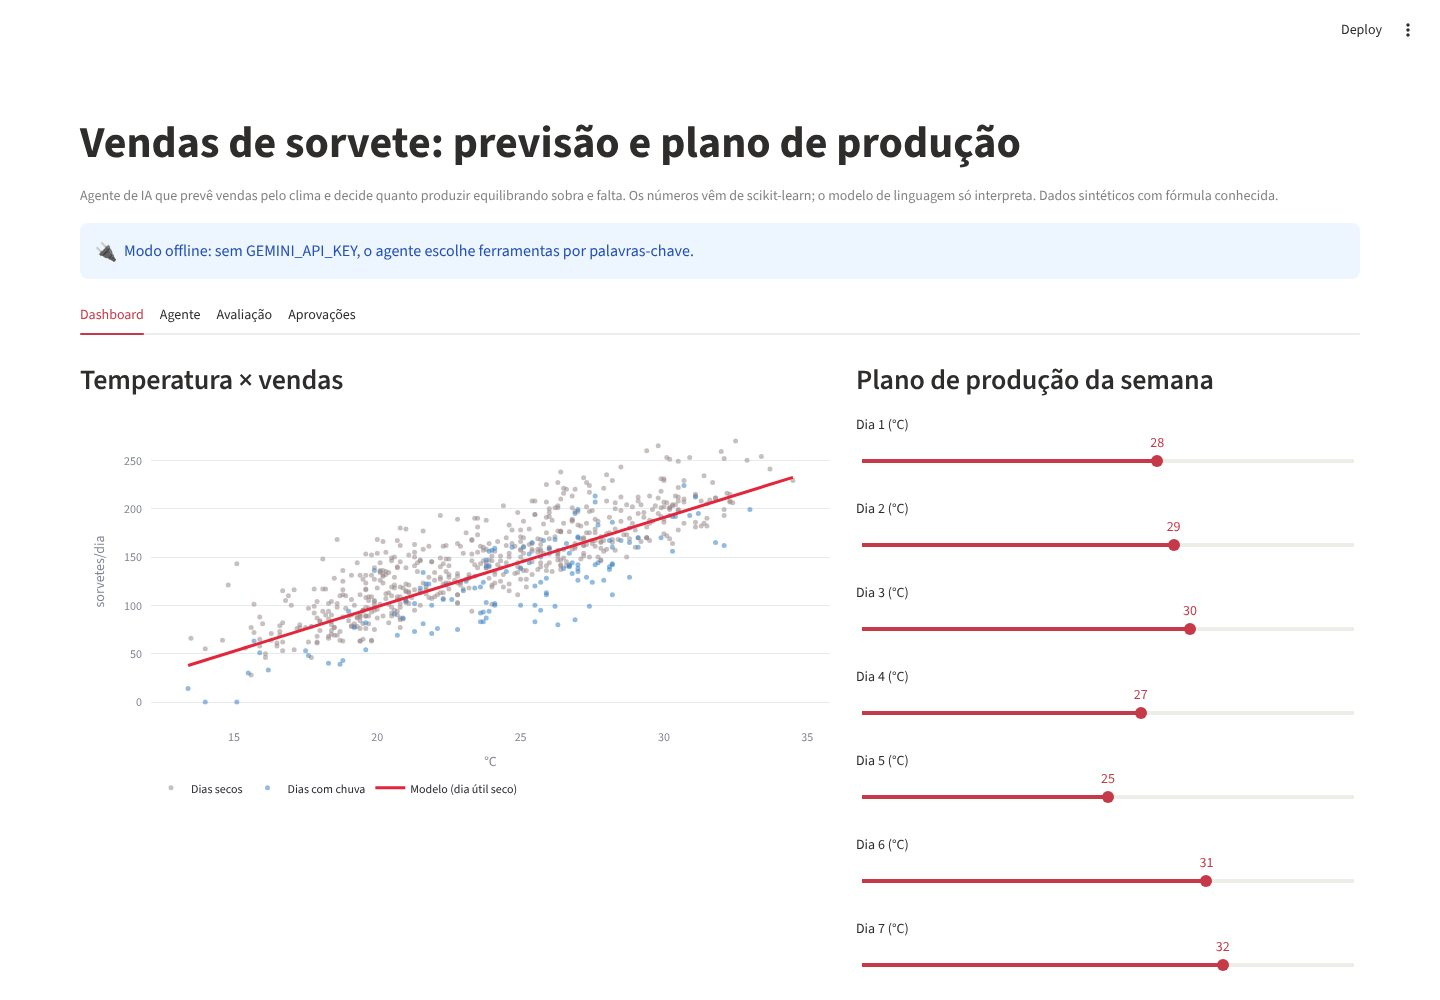
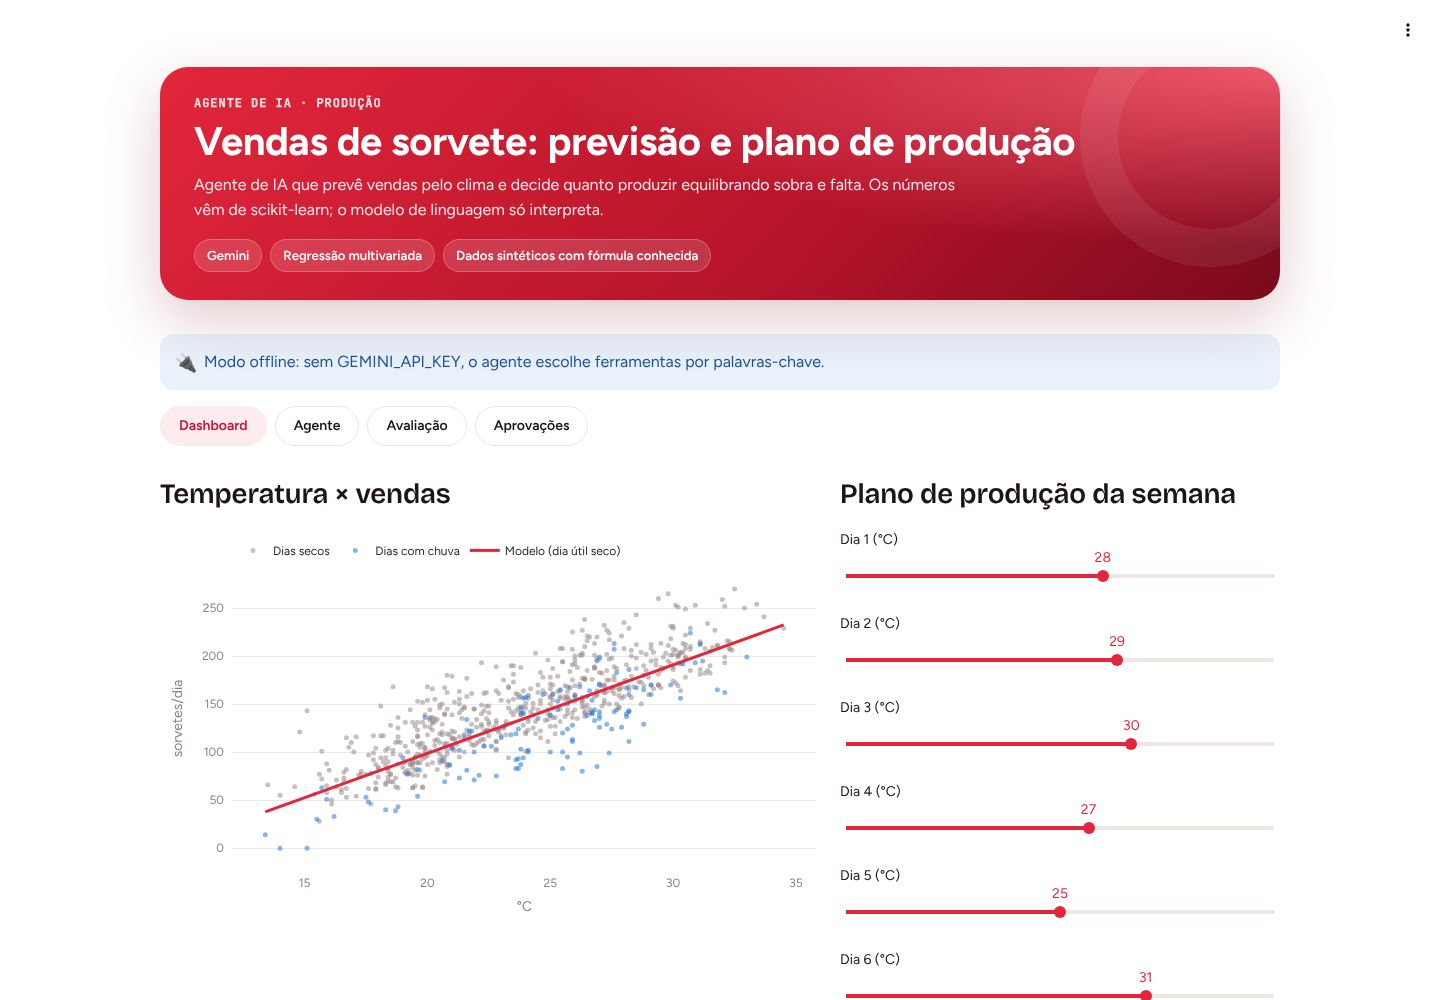
Dashboard com a identidade visual do portfólio
- .streamlit/config.toml: tema claro e escuro (vermelho #E3263B, Figtree e Bricolage Grotesque) e paletas de gráfico validadas para daltonismo
- app/tema.py: cabeçalho, cards de KPI, abas em pílula, selos de status com ícone e cores dos gráficos pela paleta
- capturas do README refeitas; streamlit>=1.51 (seções [theme.light] e [theme.dark])

Claude-Session: https://claude.ai/code/session_01WR8CaPDQRav6xXD6FyLt9e

diff --git a/app/tema.py b/app/tema.py
@@ -1,0 +1,142 @@
+"""Identidade visual compartilhada pelos dashboards: a mesma do portfólio (henriquecm02.github.io).
+
+Cores, fontes e raios ficam em `.streamlit/config.toml` (modo claro e escuro). Este módulo só acrescenta o que o tema
+do Streamlit não cobre: o cabeçalho, os cards de KPI, as abas em pílula e cores para traços com cor explícita.
+Copiado de forma idêntica em cada repositório, como o agentcore.py.
+"""
+from __future__ import annotations
+
+import html
+
+import streamlit as st
+
+# Mesma ordem das paletas do config.toml (validadas para daltonismo). Cor segue a entidade, nunca a posição.
+PALETA = {"claro": ["#E3263B", "#2a78d6", "#eda100", "#1baf7a", "#6250d6"],
+          "escuro": ["#E8455A", "#3987e5", "#c98500", "#199e70", "#9085e9"]}
+NEUTRO = {"claro": "#9A8A8D", "escuro": "#8C7E80"}  # série de referência: histórico, linha de base
+# Escala sequencial (magnitude): um só tom, do claro ao escuro (no modo escuro, do escuro ao claro).
+SEQUENCIAL = {"claro": ["#FDECEE", "#F6B3BC", "#EC6A7B", "#E3263B", "#B3132A", "#7A0A1B"],
+              "escuro": ["#3A1218", "#7A0A1B", "#B3132A", "#E3263B", "#EC6A7B", "#F6B3BC"]}
+STATUS = {"ok": ("#157347", "✅"), "atencao": ("#8A5200", "⚠"), "critico": ("#C8102E", "⛔")}
+
+
+def modo() -> str:
+    try:
+        return "escuro" if st.context.theme.type == "dark" else "claro"
+    except Exception:  # noqa: BLE001 - fora de uma sessão (testes, scripts) não há tema
+        return "claro"
+
+
+def cor(i: int) -> str:
+    """Cor categórica do slot i (0 = vermelho da marca)."""
+    return PALETA[modo()][i]
+
+
+def cores(n: int) -> list[str]:
+    """As n primeiras cores categóricas, na ordem fixa. Mais de 5 séries: agrupar em "Outros" ou separar."""
+    if n > len(PALETA["claro"]):
+        raise ValueError("Mais de 5 séries: agrupe em 'Outros' ou use pequenos múltiplos.")
+    return PALETA[modo()][:n]
+
+
+def sequencial() -> list[str]:
+    return SEQUENCIAL[modo()]
+
+
+def neutro() -> str:
+    return NEUTRO[modo()]
+
+
+def texto_secundario() -> str:
+    """Cor de rótulos de valor dentro de gráficos: texto, nunca a cor da série."""
+    return "#B9ACAE" if modo() == "escuro" else "#6B5C5F"
+
+
+def rgba(hex_: str, alpha: float) -> str:
+    h = hex_.lstrip("#")
+    return f"rgba({int(h[0:2], 16)},{int(h[2:4], 16)},{int(h[4:6], 16)},{alpha})"
+
+
+def selo(nivel: str, texto: str) -> str:
+    """Selo de status em HTML: sempre ícone + texto, nunca só a cor."""
+    c, icone = STATUS[nivel]
+    return (f'<span class="hc-selo" style="--c:{c}">{icone} {html.escape(texto)}</span>')
+
+
+_CSS = """
+<style>
+.block-container, [data-testid="stMainBlockContainer"] { padding-top: 4.2rem; max-width: 1280px; }
+[data-testid="stHeader"] { background: transparent; }
+h1, h2, h3 { letter-spacing: -0.01em; }
+.hc-hero { position: relative; overflow: hidden; border-radius: 28px; padding: 30px 34px 28px;
+  margin: 0 0 18px;
+  color: #fff; background: radial-gradient(120% 140% at 100% 0%, #F0566A 0%, rgba(240,86,106,0) 55%),
+  linear-gradient(135deg, #E3263B 0%, #B3132A 62%, #7A0A1B 100%);
+  box-shadow: 0 20px 60px rgba(122,10,27,.22); }
+.hc-hero::after { content: ""; position: absolute; right: -60px; top: -60px; width: 260px; height: 260px;
+  border-radius: 50%;
+  border: 38px solid rgba(255,255,255,.07); }
+.hc-hero .k { font: 700 12px/1 var(--hc-mono, "JetBrains Mono", monospace); letter-spacing: .08em;
+  text-transform: uppercase;
+  opacity: .85; margin-bottom: 10px; }
+.hc-hero h1 { color: #fff !important; font-size: clamp(1.7rem, 3.2vw, 2.5rem); line-height: 1.1;
+  margin: 0 0 10px; padding: 0; }
+.hc-hero p { color: rgba(255,255,255,.9); max-width: 780px; margin: 0; font-size: 1rem; line-height: 1.55; }
+.hc-hero .chips { display: flex; flex-wrap: wrap; gap: 8px; margin-top: 16px; }
+.hc-hero .chips span { background: rgba(255,255,255,.14); border: 1px solid rgba(255,255,255,.22);
+  border-radius: 999px;
+  padding: 5px 12px; font-size: .82rem; font-weight: 600; }
+[data-testid="stMetric"] { background: var(--hc-surface); border: 1px solid var(--hc-line);
+  border-radius: 20px;
+  padding: 16px 18px; min-height: 118px;
+  box-shadow: 0 1px 2px rgba(60,10,20,.05), 0 6px 18px rgba(60,10,20,.06); }
+[data-testid="stMetricLabel"] p { font-weight: 600; color: var(--hc-muted); }
+[data-testid="stMetricValue"] { font-weight: 700; letter-spacing: -0.02em; }
+[data-testid="stMetricDelta"] { max-width: 100%; border-radius: 10px !important; height: auto !important; }
+[data-testid="stMetricDelta"] p { white-space: normal !important; overflow: visible !important; }
+[role="tablist"] { gap: 8px; flex-wrap: wrap; border: 0 !important; box-shadow: none !important;
+  padding-bottom: 4px; }
+[role="tablist"]::after, [role="tablist"]::before { display: none !important; }
+[data-baseweb="tab-highlight"], [data-baseweb="tab-border"], .react-aria-SelectionIndicator { display: none
+  !important; }
+[role="tab"] { border-radius: 999px !important; padding: 8px 18px !important;
+  border: 1px solid var(--hc-line) !important;
+  background: var(--hc-surface) !important; height: auto !important;
+  transition: background .15s, border-color .15s; }
+[role="tab"]:hover { border-color: var(--hc-red) !important; }
+[role="tab"] p { font-weight: 600; margin: 0; }
+[role="tab"][aria-selected="true"] { background: var(--hc-soft) !important;
+  border-color: transparent !important; }
+[role="tab"][aria-selected="true"] p { color: var(--hc-red); }
+[data-testid="stVerticalBlockBorderWrapper"]:has(> div > [data-testid="stVerticalBlock"]) { border-radius:
+  20px; }
+[data-testid="stAlert"] { border-radius: 16px; }
+.hc-selo { display: inline-flex; align-items: center; gap: 6px; padding: 3px 10px; border-radius: 999px;
+  font-weight: 600;
+  font-size: .85rem; color: var(--c); background: color-mix(in srgb, var(--c) 12%, transparent); }
+.hc-nota { color: var(--hc-muted); font-size: .9rem; }
+</style>
+"""
+_TOKENS = {
+    "claro": "--hc-surface:#FFFFFF;--hc-line:#EEE4E5;--hc-muted:#6B5C5F;--hc-soft:#FDECEE;--hc-red:#C8102E;",
+    "escuro": "--hc-surface:#1F191A;--hc-line:#3A2F31;--hc-muted:#B9ACAE;--hc-soft:#3A1218;--hc-red:#F08E9B;",
+}
+
+
+def aplicar_tema(titulo: str, subtitulo: str, kicker: str = "", chips: list[str] | None = None) -> None:
+    """Injeta o CSS do portfólio e desenha o cabeçalho. Chamar logo depois de st.set_page_config."""
+    st.html(f"<style>:root{{{_TOKENS[modo()]}}}</style>" + _CSS)
+    chips_html = "".join(f"<span>{html.escape(c)}</span>" for c in chips or [])
+    st.html(f'<div class="hc-hero">{f"<div class=k>{html.escape(kicker)}</div>" if kicker else ""}'
+            f"<h1>{html.escape(titulo)}</h1><p>{html.escape(subtitulo)}</p>"
+            f'{f"<div class=chips>{chips_html}</div>" if chips_html else ""}</div>')
+
+
+def estilo_plotly(fig, altura: int | None = None, **layout):
+    """Acabamento comum dos gráficos Plotly: legenda no topo, hover unificado, margens enxutas."""
+    fig.update_layout(margin={"l": 8, "r": 8, "t": 36, "b": 8},
+                      legend={"orientation": "h", "yanchor": "bottom", "y": 1.02, "x": 0, "title_text": ""},
+                      hoverlabel={"font_family": "Figtree"}, **({"height": altura} if altura else {}), **layout)
+    fig.update_xaxes(showgrid=False)
+    fig.update_yaxes(zeroline=False)
+    return fig

diff --git a/app/streamlit_app.py b/app/streamlit_app.py
@@ -9,6 +9,7 @@ import numpy as np
 import pandas as pd
 import plotly.graph_objects as go
 import streamlit as st
+import tema
 
 ROOT = Path(__file__).resolve().parents[1]
 sys.path.insert(0, str(ROOT / "src"))
@@ -17,7 +18,6 @@ from sorveteagent import data as D  # noqa: E402
 from sorveteagent import models as M  # noqa: E402
 from sorveteagent.tools import build_agent, t_planejar  # noqa: E402
 
-RED, INK, GREY = "#E3263B", "#1E1416", "#9A8A8D"
 st.set_page_config(page_title="Sorvete · previsão e produção", page_icon="🍦", layout="wide")
 
 
@@ -31,9 +31,12 @@ agent = get_agent()
 st.session_state.setdefault("pending", [])
 st.session_state.setdefault("log", [])
 
-st.title("Vendas de sorvete: previsão e plano de produção")
-st.caption("Agente de IA que prevê vendas pelo clima e decide quanto produzir equilibrando sobra e falta. "
-           "Os números vêm de scikit-learn; o modelo de linguagem só interpreta. Dados sintéticos com fórmula conhecida.")
+tema.aplicar_tema(
+    "Vendas de sorvete: previsão e plano de produção",
+    "Agente de IA que prevê vendas pelo clima e decide quanto produzir equilibrando sobra e falta. "
+    "Os números vêm de scikit-learn; o modelo de linguagem só interpreta.",
+    kicker="Agente de IA · produção",
+    chips=["Gemini", "Regressão multivariada", "Dados sintéticos com fórmula conhecida"])
 if agent.llm is None:
     st.info("Modo offline: sem GEMINI_API_KEY, o agente escolhe ferramentas por palavras-chave.", icon="🔌")
 
@@ -46,15 +49,15 @@ with tab_dash:
         coef = M.coefficients()
         xs = np.linspace(df["temperatura"].min(), df["temperatura"].max(), 50)
         fig = go.Figure()
-        for chuva, cor, nome in ((0, GREY, "Dias secos"), (1, "#3B82C4", "Dias com chuva")):
+        for chuva, cor, nome in ((0, tema.neutro(), "Dias secos"), (1, tema.cor(1), "Dias com chuva")):
             sub = df[df["chuva"] == chuva]
             fig.add_trace(go.Scatter(x=sub["temperatura"], y=sub["vendas"], mode="markers", name=nome,
                                      marker={"color": cor, "size": 5, "opacity": 0.55}))
         fig.add_trace(go.Scatter(x=xs, y=coef["intercepto"] + coef["por_grau"] * xs, name="Modelo (dia útil seco)",
-                                 line={"color": RED, "width": 3}))
+                                 line={"color": tema.cor(0), "width": 3}))
         fig.update_layout(height=400, margin={"l": 10, "r": 10, "t": 10, "b": 10}, xaxis_title="°C", yaxis_title="sorvetes/dia",
                           legend={"orientation": "h", "y": -0.18})
-        st.plotly_chart(fig, use_container_width=True)
+        st.plotly_chart(tema.estilo_plotly(fig), use_container_width=True)
     with c2:
         st.subheader("Plano de produção da semana")
         temps = [st.slider(f"Dia {i + 1} (°C)", 10, 40, v, key=f"t{i}") for i, v in enumerate([28, 29, 30, 27, 25, 31, 32])]
@@ -69,17 +72,17 @@ with tab_dash:
     k3.metric("R² (holdout)", f"{tab['multivariado']['r2']:.3f}", delta=f"{tab['multivariado']['r2'] - tab['so_temperatura']['r2']:+.3f} vs. só temperatura")
     k4.metric("Efeito da chuva", f"{coef['chuva']:.1f} un/dia")
     pl = pd.DataFrame(plano["dias"])[["data", "temperatura", "fim_de_semana", "previsao", "producao"]]
-    fig2 = go.Figure([go.Bar(x=pl["data"], y=pl["previsao"], name="Demanda prevista", marker_color=GREY),
-                      go.Bar(x=pl["data"], y=pl["producao"], name="Produzir", marker_color=RED)])
+    fig2 = go.Figure([go.Bar(x=pl["data"], y=pl["previsao"], name="Demanda prevista", marker_color=tema.neutro()),
+                      go.Bar(x=pl["data"], y=pl["producao"], name="Produzir", marker_color=tema.cor(0))])
     fig2.update_layout(barmode="group", height=300, margin={"l": 10, "r": 10, "t": 10, "b": 10}, legend={"orientation": "h", "y": -0.25})
-    st.plotly_chart(fig2, use_container_width=True)
+    st.plotly_chart(tema.estilo_plotly(fig2), use_container_width=True)
     st.caption(f"Produção no quantil {plano['quantil_critico']:.3f} da demanda: quanto mais cara a falta, mais se produz.")
 
 with tab_agent:
     st.subheader("Pergunte ao agente")
     ex = st.selectbox("Exemplos", ["", "Quantos sorvetes vou vender amanhã com 31 graus?", "Quanto a chuva derruba as vendas?",
                                    "Quanto devo produzir na próxima semana?", "Compare os modelos: qual tem o melhor R²?",
-                                   "Confirme a ordem de produção para a fábrica"])
+                                   "Confirme a ordem de produção para a fábrica"], placeholder="Escolha um exemplo")
     q = st.text_input("Pergunta", value=ex)
     if st.button("Perguntar", type="primary") and q.strip():
         r = agent.run(q)

diff --git a/tests/test_app.py b/tests/test_app.py
@@ -1,0 +1,12 @@
+"""O dashboard sobe sem erro (Streamlit AppTest, sem rede)."""
+from pathlib import Path
+
+from streamlit.testing.v1 import AppTest
+
+APP = Path(__file__).resolve().parents[1] / "app" / "streamlit_app.py"
+
+
+def test_dashboard_renderiza_sem_erro():
+    at = AppTest.from_file(str(APP), default_timeout=180).run()
+    assert not at.exception, at.exception
+    assert len(at.metric) >= 1
